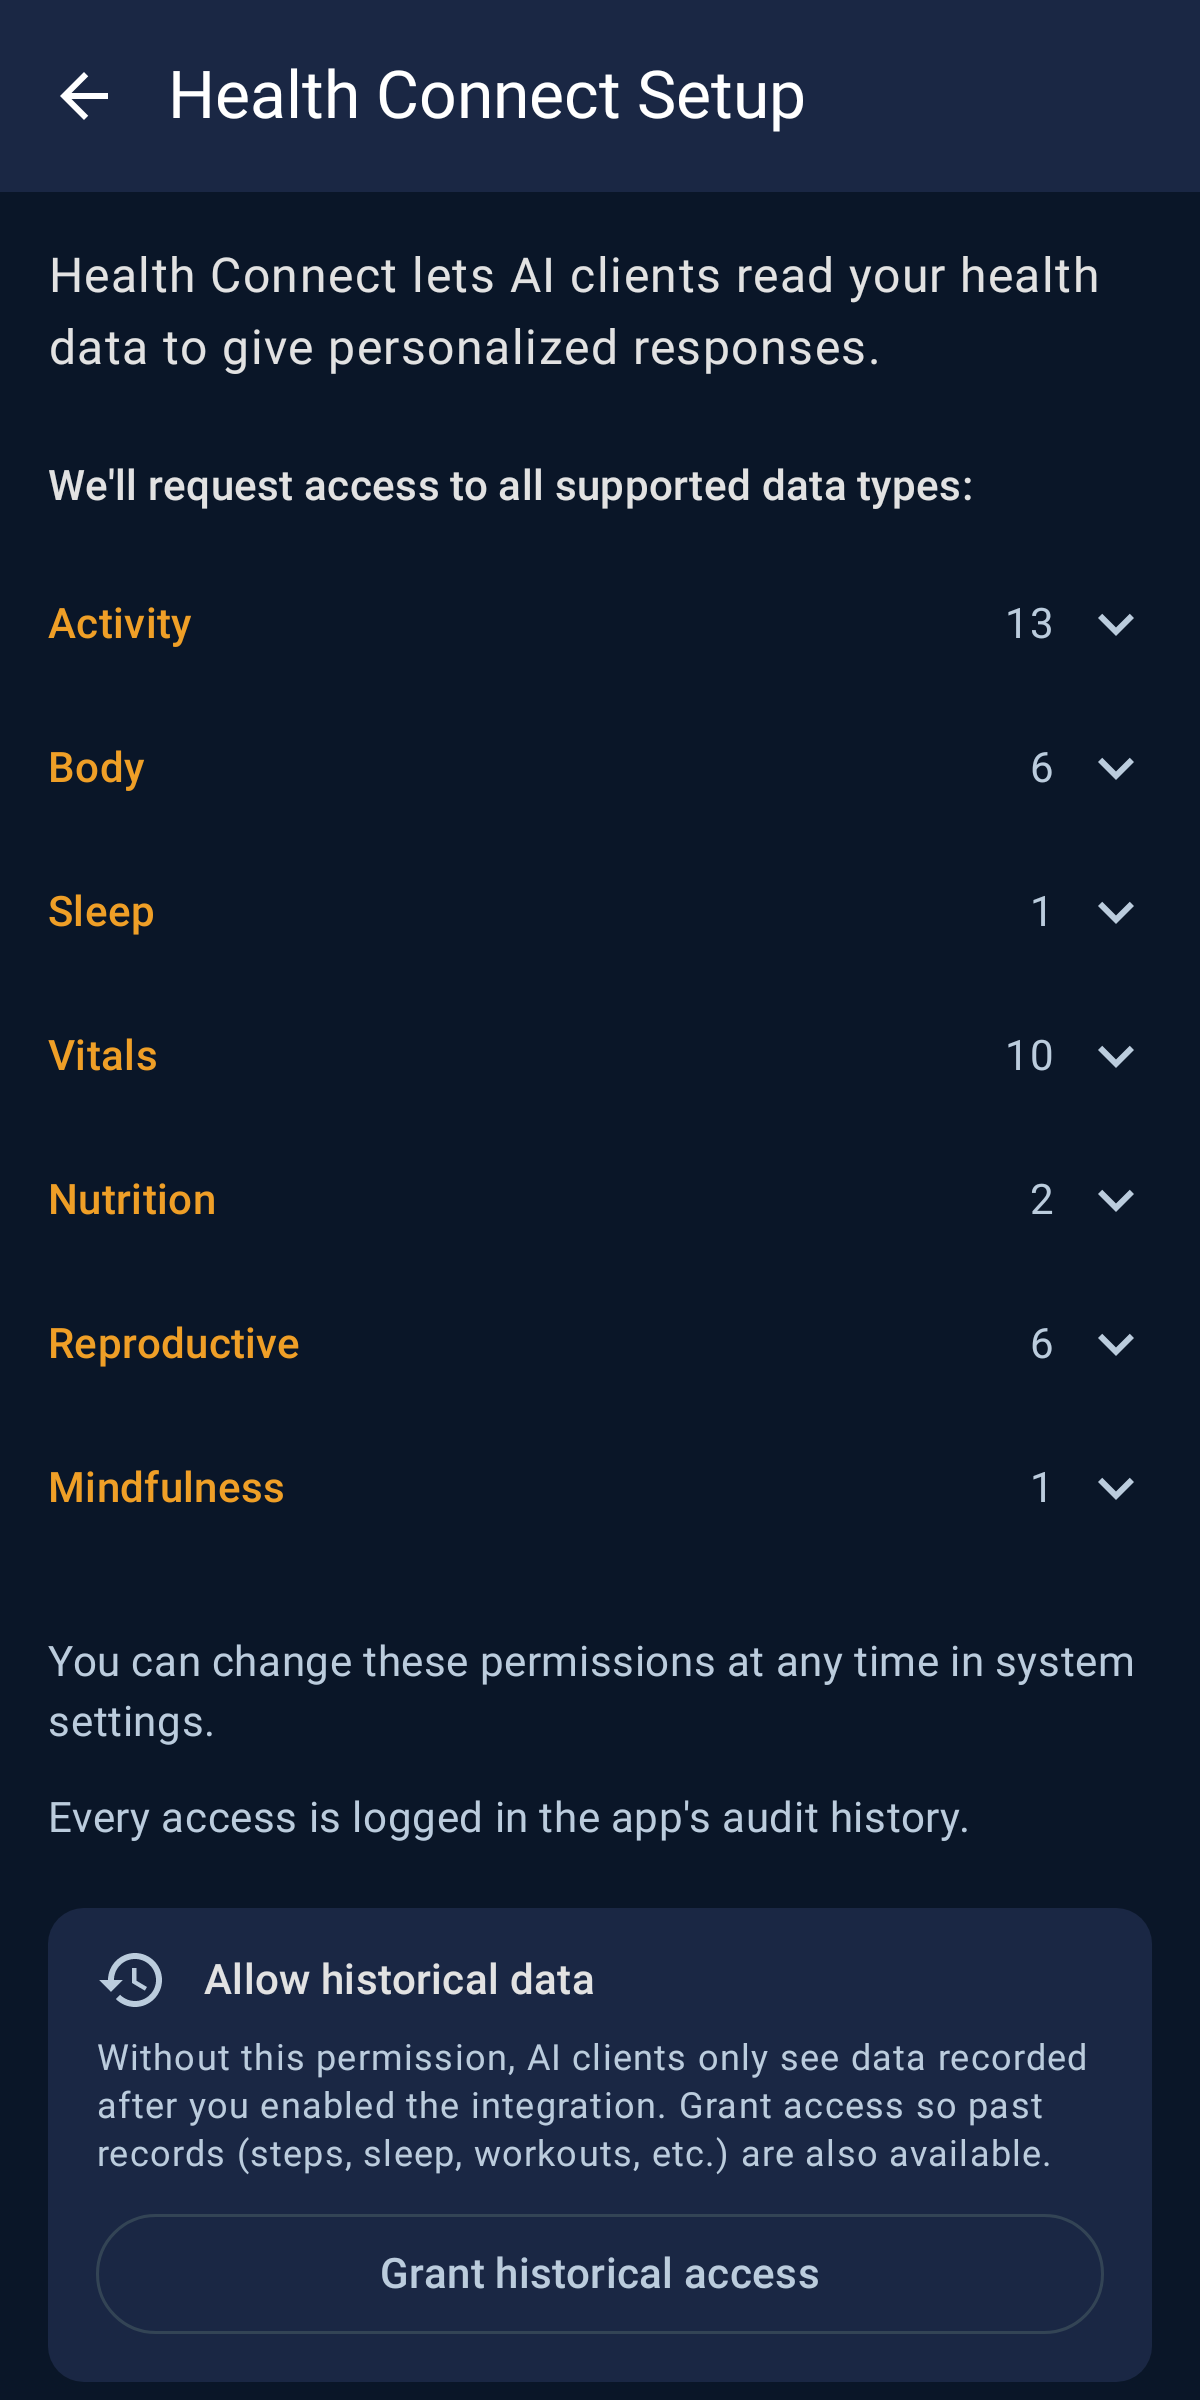
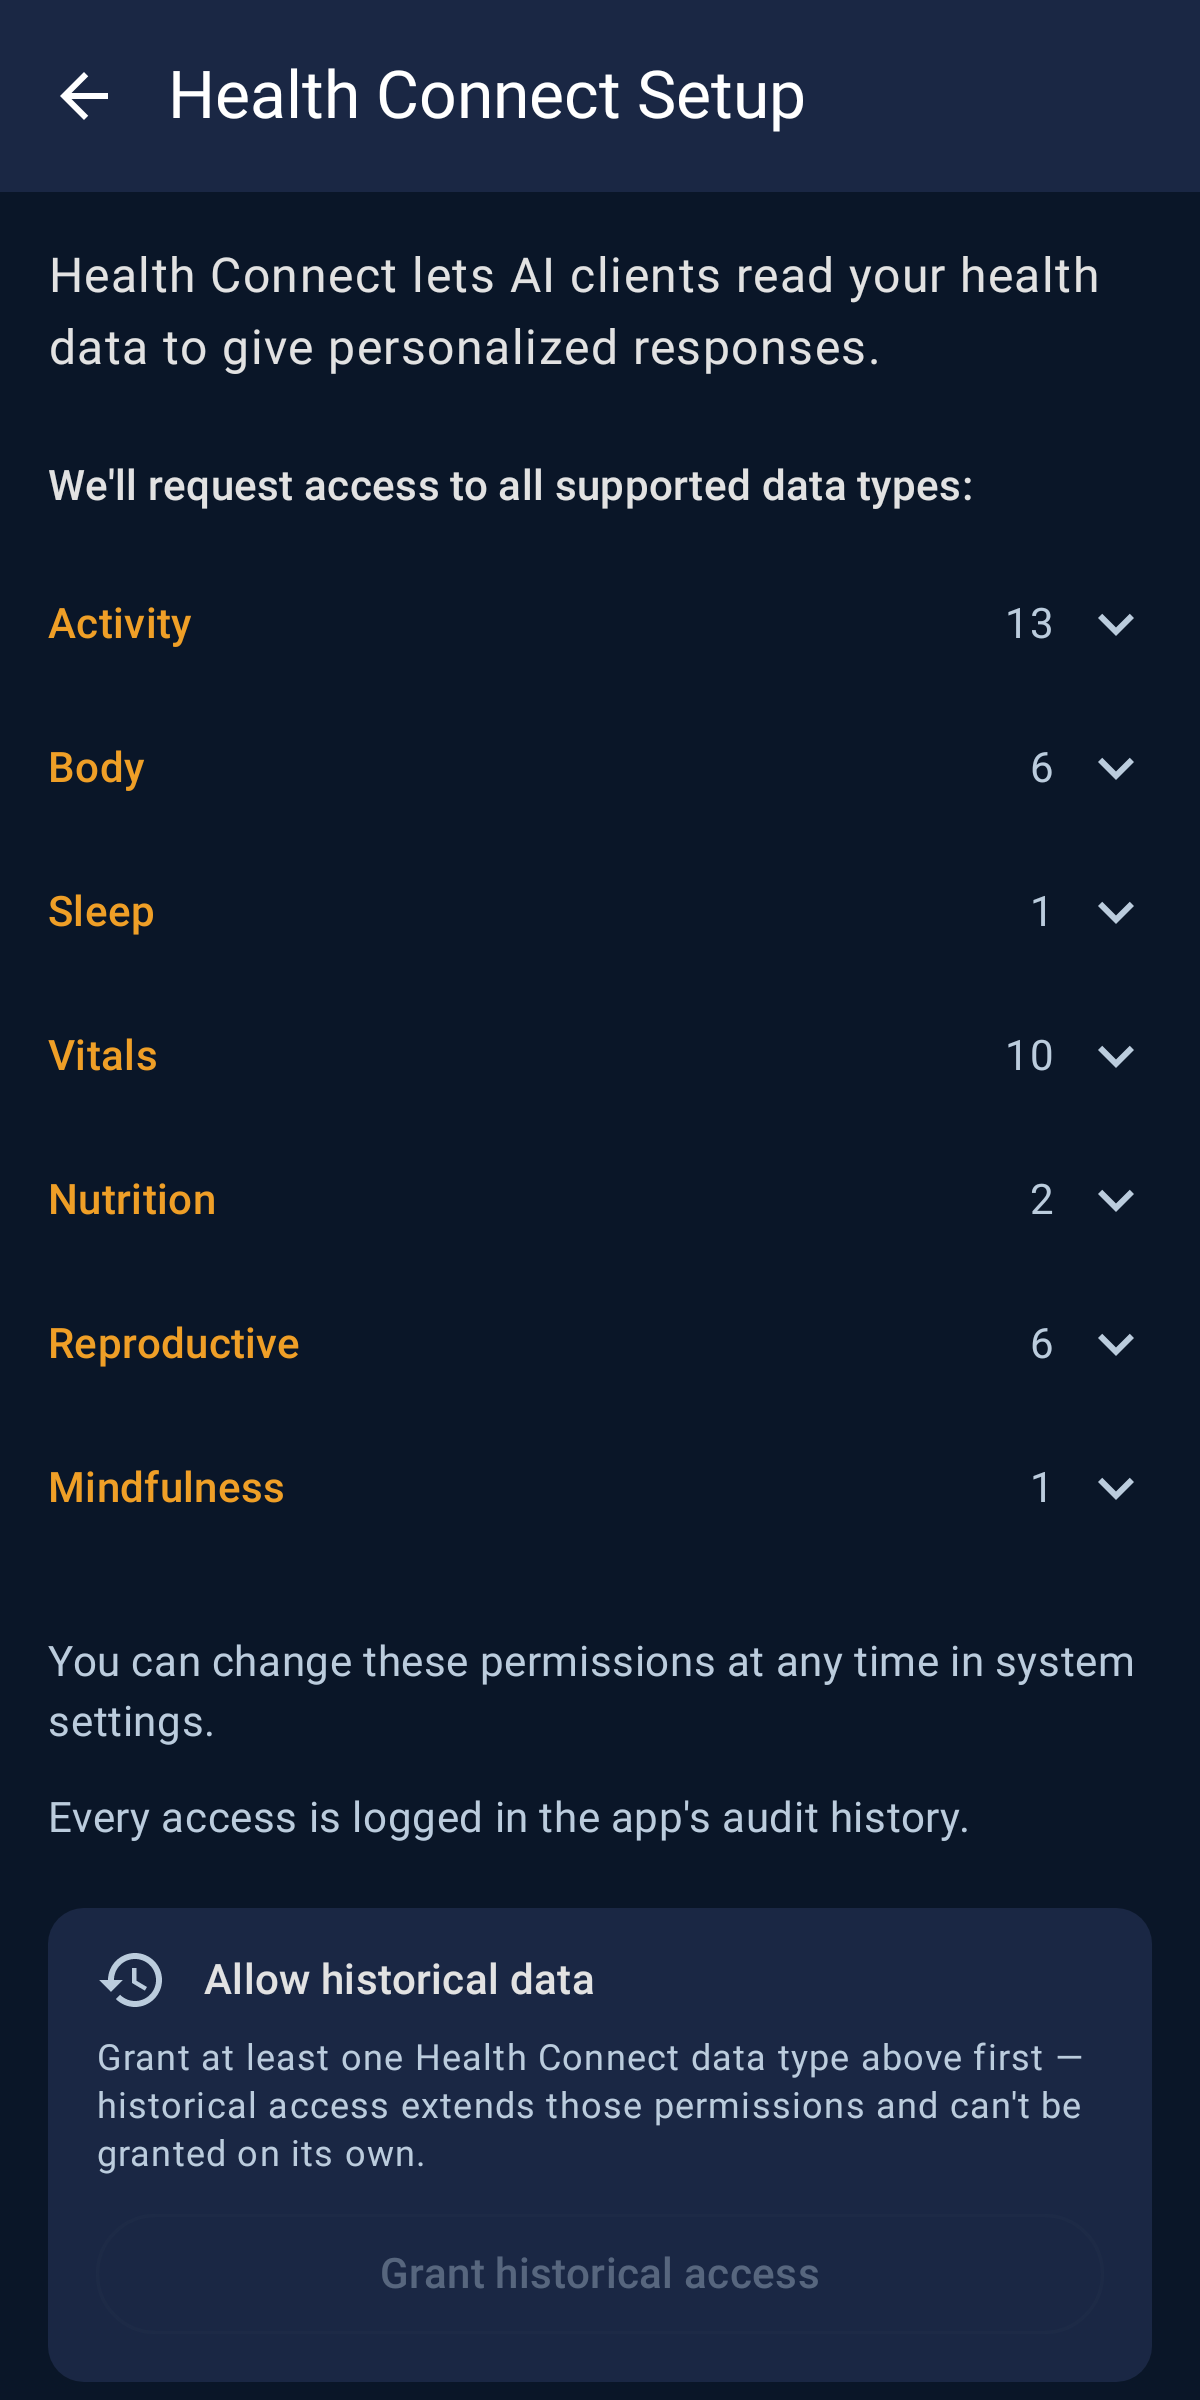
Fix onboarding permission race + HC historical-access button no-op
Two UX bugs surfaced during fresh-install onboarding:

1. Notification preferences Continue launched the permission prompt
   AND navigated to Home simultaneously, so the home screen rendered
   behind the system dialog. Move the navigation into the permission
   launcher callback so it only fires after the dialog dismisses.
   Pre-Tiramisu devices (no runtime permission) navigate immediately.

2. Health Connect setup's "Grant historical access" button did nothing
   when tapped without any base READ_* permission — HC silently refuses
   to grant READ_HEALTH_DATA_HISTORY on its own. Disable the button
   until at least one base permission is granted and show an
   explanatory message so the user knows to grant base access first.

Changed region(s): [[0.0925, 0.8438, 0.8942, 0.9062], [0.3083, 0.9375, 0.6783, 0.9688]]

diff --git a/app/src/main/java/com/rousecontext/app/ui/navigation/destinations/NotificationPreferencesDestination.kt b/app/src/main/java/com/rousecontext/app/ui/navigation/destinations/NotificationPreferencesDestination.kt
@@ -32,46 +32,50 @@ fun NavGraphBuilder.notificationPreferencesDestination(navController: NavControl
         val state by prefsViewModel.state.collectAsState()
         val refresher: NotificationPermissionRefresher =
             koinInject()
+        val continueToHome = {
+            prefsViewModel.persistSelection()
+            // Kick off relay/FCM registration in the background now
+            // that the user has completed the one-time onboarding
+            // preferences. This mirrors the old Get-Started behaviour
+            // but delayed until after preferences are set.
+            onboardingViewModel.startOnboarding()
+            navController.navigate(Routes.HOME) {
+                popUpTo(Routes.ONBOARDING) {
+                    inclusive = true
+                }
+                launchSingleTop = true
+            }
+        }
         val notificationPermissionLauncher =
             rememberLauncherForActivityResult(
                 contract = ActivityResultContracts.RequestPermission()
             ) { _ ->
-                // Don't block on result. Refresh so the dashboard
-                // banner reflects the new state on next render.
+                // Refresh so the dashboard banner reflects the new
+                // state on next render, then continue — navigating
+                // only after the system dialog dismisses prevents the
+                // home screen from rendering behind the prompt.
                 refresher.refresh()
+                continueToHome()
             }
         NotificationPreferencesScreen(
             state = state,
             onModeSelected = prefsViewModel::select,
             onRequestNotificationPermission = {
-                // Only request on Android 13+ where the runtime
-                // permission exists. On older devices the
-                // permission is implicit and the launcher would
-                // immediately resolve granted, but we skip the
-                // round-trip.
+                // On Android 13+ the launcher callback drives the
+                // subsequent navigation. On older devices there is
+                // no runtime permission and no system dialog, so
+                // navigate directly.
                 if (Build.VERSION.SDK_INT >=
                     Build.VERSION_CODES.TIRAMISU
                 ) {
                     notificationPermissionLauncher.launch(
                         Manifest.permission.POST_NOTIFICATIONS
                     )
+                } else {
+                    continueToHome()
                 }
             },
-            onContinue = {
-                prefsViewModel.persistSelection()
-                // Kick off relay/FCM registration in the
-                // background now that the user has completed the
-                // one-time onboarding preferences. This mirrors
-                // the old Get-Started behaviour but delayed
-                // until after preferences are set.
-                onboardingViewModel.startOnboarding()
-                navController.navigate(Routes.HOME) {
-                    popUpTo(Routes.ONBOARDING) {
-                        inclusive = true
-                    }
-                    launchSingleTop = true
-                }
-            },
+            onContinue = continueToHome,
             onBack = { navController.popBackStack() }
         )
     }

diff --git a/app/src/main/java/com/rousecontext/app/ui/screens/HealthConnectSetupScreen.kt b/app/src/main/java/com/rousecontext/app/ui/screens/HealthConnectSetupScreen.kt
@@ -251,6 +251,7 @@ private fun HealthConnectSetupBody(
 
         HistoricalAccessSection(
             granted = historicalAccessGranted,
+            canRequest = grantedRecordTypes.isNotEmpty(),
             onRequestHistoricalAccess = onRequestHistoricalAccess
         )
 
@@ -290,7 +291,11 @@ private fun HealthConnectSetupBody(
 }
 
 @Composable
-private fun HistoricalAccessSection(granted: Boolean, onRequestHistoricalAccess: () -> Unit) {
+private fun HistoricalAccessSection(
+    granted: Boolean,
+    canRequest: Boolean,
+    onRequestHistoricalAccess: () -> Unit
+) {
     if (granted) {
         Row(
             verticalAlignment = Alignment.CenterVertically,
@@ -354,7 +359,11 @@ private fun HistoricalAccessSection(granted: Boolean, onRequestHistoricalAccess:
             Spacer(modifier = Modifier.height(6.dp))
             Text(
                 text = stringResource(
-                    R.string.screen_health_connect_setup_historical_disabled_description
+                    if (canRequest) {
+                        R.string.screen_health_connect_setup_historical_disabled_description
+                    } else {
+                        R.string.screen_health_connect_setup_historical_requires_base
+                    }
                 ),
                 style = MaterialTheme.typography.bodySmall,
                 color = MaterialTheme.colorScheme.onSurfaceVariant
@@ -362,6 +371,7 @@ private fun HistoricalAccessSection(granted: Boolean, onRequestHistoricalAccess:
             Spacer(modifier = Modifier.height(dimensionResource(R.dimen.spacing_sm)))
             OutlinedButton(
                 onClick = onRequestHistoricalAccess,
+                enabled = canRequest,
                 modifier = Modifier.fillMaxWidth()
             ) {
                 Text(stringResource(R.string.screen_health_connect_setup_grant_historical))

diff --git a/app/src/main/java/com/rousecontext/app/ui/screens/NotificationPreferencesScreen.kt b/app/src/main/java/com/rousecontext/app/ui/screens/NotificationPreferencesScreen.kt
@@ -153,13 +153,12 @@ fun NotificationPreferencesScreen(
 
             Button(
                 onClick = {
-                    // Trigger the OS permission prompt before continuing so
-                    // the user grants notifications inline as part of
-                    // onboarding. The screen does not block on the result;
-                    // onContinue is invoked regardless so denial does not
-                    // strand the user. Issue #93.
+                    // Trigger the OS permission prompt; the destination
+                    // wires the launcher callback to continue afterwards
+                    // so navigation doesn't race with the system dialog.
+                    // On pre-Tiramisu devices the destination calls
+                    // onContinue directly since no dialog is shown.
                     onRequestNotificationPermission()
-                    onContinue()
                 },
                 modifier = Modifier
                     .fillMaxWidth()
